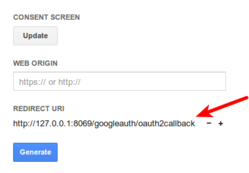
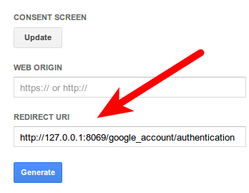
[TYPO] Rename google_base_account into google_account

diff --git a/google_calendar/static/src/js/calendar_sync.js b/google_calendar/static/src/js/calendar_sync.js
@@ -18,7 +18,7 @@ openerp.google_calendar = function(instance) {
             //$('div.oe_cal_sync_button').hide();
             $('div.oe_cal_sync_button').prop('disabled',true);
             
-            self.rpc('/web_calendar_sync/sync_calendar/sync_data', {
+            self.rpc('/google_calendar/sync_data', {
                 arch: res.arch,
                 fields: res.fields,
                 model:res.model,

diff --git a/google_calendar/controllers/main.py b/google_calendar/controllers/main.py
@@ -1,0 +1,48 @@
+import simplejson
+import urllib
+import openerp
+import openerp.addons.web.http as http
+from openerp.addons.web.http import request
+import openerp.addons.web.controllers.main as webmain
+from openerp.addons.web.http import SessionExpiredException
+from werkzeug.exceptions import BadRequest
+import werkzeug.utils
+
+class google_calendar_controller(http.Controller):
+    
+    @http.route('/google_calendar/sync_data', type='json', auth='user')
+    def sync_data(self, arch, fields, model,**kw):
+        """ 
+            This route/function is called when we want to synchronize openERP calendar with Google Calendar
+            
+            Function return a dictionary with the status :  NeedConfigFromAdmin, NeedAuth, NeedRefresh, NoNewEventFromGoogle, SUCCESS if not crm meeting
+            The dictionary may contains an url, to allow OpenERP Client to redirect user on this URL for authorization for example 
+                    
+        """
+                            
+        if model == 'crm.meeting':
+            gs_obj = request.registry.get('google.service')
+            gc_obj = request.registry.get('google.calendar')
+            
+            # Checking that admin have already configured Google API for google synchronization !
+            client_id = gs_obj.get_client_id(request.cr, request.uid,'calendar',context=kw.get('LocalContext'))
+
+            if not client_id or client_id == '':
+                return {
+                        "status" :  "NeedConfigFromAdmin",
+                        "url" : '' 
+                        }
+                        
+            # Checking that user have already  accepted OpenERP to access his calendar !
+            if gc_obj.need_authorize(request.cr, request.uid,context=kw.get('LocalContext')):
+                url =  gc_obj.authorize_google_uri(request.cr, request.uid, from_url=kw.get('fromurl'),context=kw.get('LocalContext'))
+                return {
+                        "status" :  "NeedAuth",
+                        "url" : url 
+                        }
+            
+            # If App authorized, and user access accepted, We launch the synchronization
+            return gc_obj.synchronize_events(request.cr, request.uid, [], kw.get('LocalContext'))
+                      
+        return { "status" : "SUCCESS" }
+    

diff --git a/google_account/controllers/main.py b/google_account/controllers/main.py
@@ -1,0 +1,34 @@
+import simplejson
+import urllib
+import openerp
+import openerp.addons.web.http as http
+from openerp.addons.web.http import request
+import openerp.addons.web.controllers.main as webmain
+from openerp.addons.web.http import SessionExpiredException
+from werkzeug.exceptions import BadRequest
+import werkzeug.utils
+
+class google_auth(http.Controller):
+    
+    @http.route('/google_account/authentication', type='http', auth="none")
+    def oauth2callback(self, **kw):
+        """ This route/function is called by Google when user Accept/Refuse the consent of Google """
+        
+        state = simplejson.loads(kw['state'])
+        dbname = state.get('d')
+        service = state.get('s')
+        url_return = state.get('from')
+        
+        registry = openerp.modules.registry.RegistryManager.get(dbname)
+        with registry.cursor() as cr:
+            if kw.get('code'):
+                registry.get('google.%s' % service).set_all_tokens(cr,request.session.uid,kw['code'])
+                return werkzeug.utils.redirect(url_return)
+            
+            #TODO - Display error at customer if url contains ?Error=
+            elif kw.get('error'):
+                return werkzeug.utils.redirect("%s%s%s" % (url_return ,"?Error=" , kw.get('error')))
+            else:
+                return werkzeug.utils.redirect("%s%s%s" % (url_return ,"?Error=Unknown_error"))
+
+        

diff --git a/google_account/google_account.py b/google_account/google_account.py
@@ -81,8 +81,8 @@ class google_service(osv.osv_memory):
             'client_id': client_id,
             'state' : simplejson.dumps(state_obj),
             'scope': scope or 'https://www.googleapis.com/auth/%s' % (service,),
-            'redirect_uri': base_url + '/googleauth/oauth2callback',
-            'approval_prompt':'force',
+            'redirect_uri': base_url + '/google_account/authentication',
+            #'approval_prompt':'force',
             'access_type':'offline'
         }
         
@@ -100,7 +100,7 @@ class google_service(osv.osv_memory):
             'client_id': client_id,
             'client_secret': client_secret,
             'grant_type' : 'authorization_code',
-            'redirect_uri': base_url + '/googleauth/oauth2callback'
+            #'redirect_uri': base_url + '/google_account/authentication'
         }
                 
         headers = {"content-type": "application/x-www-form-urlencoded"}

diff --git a/google_calendar/res_config.py b/google_calendar/res_config.py
@@ -45,7 +45,7 @@ class calendar_config_settings(osv.osv_memory):
         
         cal_client_id = params.get_param(cr, uid, 'google_calendar_client_id',default='',context=context)
         cal_client_secret = params.get_param(cr, uid, 'google_calendar_client_secret',default='',context=context)
-        server_uri= "%s/googleauth/oauth2callback" % params.get_param(cr, uid, 'web.base.url',default="http://yourcompany.my.openerp.com",context=context)          
+        server_uri= "%s/google_account/authentication" % params.get_param(cr, uid, 'web.base.url',default="http://yourcompany.my.openerp.com",context=context)          
         return dict(cal_client_id=cal_client_id,cal_client_secret=cal_client_secret,server_uri=server_uri)
         
         

diff --git a/google_calendar/google_calendar.py b/google_calendar/google_calendar.py
@@ -678,7 +678,7 @@ class google_calendar(osv.osv):
                 
         vals = {}
         vals['google_%s_rtoken' % self.STR_SERVICE] = all_token.get('refresh_token')
-        vals['google_%s_token_validity' % self.STR_SERVICE] = datetime.now() + timedelta(seconds=all_token.get('expires_in')) #NEED A CALCUL
+        vals['google_%s_token_validity' % self.STR_SERVICE] = datetime.now() + timedelta(seconds=all_token.get('expires_in'))
         vals['google_%s_token' % self.STR_SERVICE] = all_token.get('access_token')           
         self.pool.get('res.users').write(cr,SUPERUSER_ID,uid,vals,context=context)
          

diff --git a/google_calendar/__openerp__.py b/google_calendar/__openerp__.py
@@ -30,7 +30,7 @@ The module adds the possibility to synchronize Google Calendar with OpenERP
 """,
     'author': 'OpenERP SA',
     'website': 'http://www.openerp.com',
-    'depends': ['google_base_account','base_calendar'],
+    'depends': ['google_account','base_calendar'],
     'css': ['static/src/css/*.css'],
     'js': ['static/src/js/*.js'],
     'qweb': ['static/src/xml/*.xml'],

diff --git a/google_account/__init__.py b/google_account/__init__.py
@@ -18,7 +18,7 @@
 #    along with this program.  If not, see <http://www.gnu.org/licenses/>.     
 #
 ##############################################################################
-import google_base_account
+import google_account
 import controllers
 
 # vim:expandtab:smartindent:tabstop=4:softtabstop=4:shiftwidth=4:

diff --git a/google_drive/__openerp__.py b/google_drive/__openerp__.py
@@ -39,7 +39,7 @@
     'demo': [
         'google_drive_demo.xml'
     ],
-    'depends': ['base_setup', 'google_base_account'],
+    'depends': ['base_setup', 'google_account'],
     'description': """
 Integrate google document to OpenERP record.
 ============================================

diff --git a/google_account/__openerp__.py b/google_account/__openerp__.py
@@ -32,7 +32,7 @@ The module adds google user in res user.
     'website': 'http://www.openerp.com',
     'depends': ['base_setup'],
     'data': [
-        'google_base_account_data.xml',
+        'google_account_data.xml',
     ],
     'demo': [],
     'installable': True,

diff --git a/google_calendar/__init__.py b/google_calendar/__init__.py
@@ -1,2 +1,3 @@
 import res_config
 import google_calendar
+import controllers

diff --git a/google_calendar/controllers/__init__.py b/google_calendar/controllers/__init__.py
@@ -1,0 +1,1 @@
+import main
